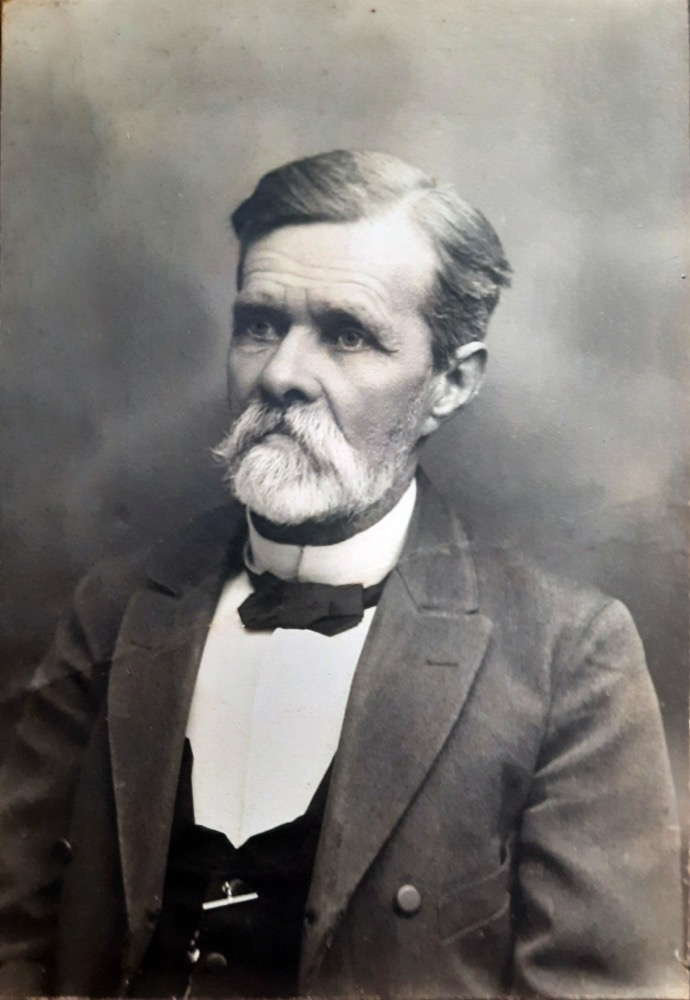
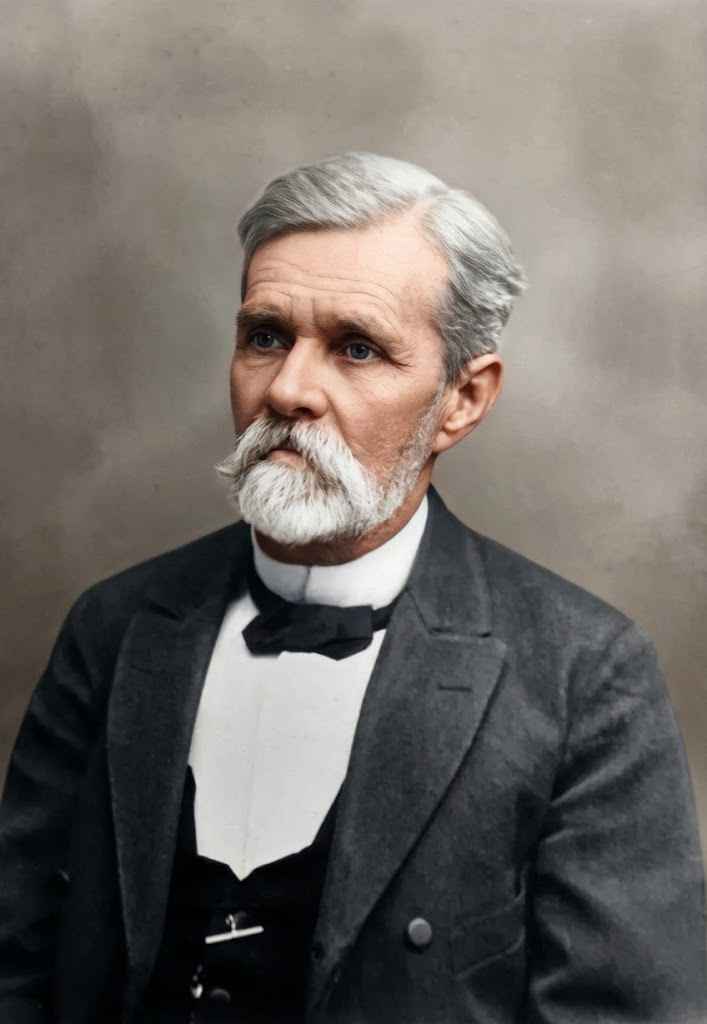
Approve Nechui-Levytskyi: colorized portrait, quote, reworked closing sections

diff --git a/src/content/people/uk/ivan-nechui-levytskyi.md b/src/content/people/uk/ivan-nechui-levytskyi.md
@@ -21,6 +21,7 @@ image:
   alt: "Літній Іван Нечуй-Левицький із сивими вусами й бородою, у сюртуку й краватці-метелику, фото 1912 року"
   author: "Невідомий автор"
   license: "Public domain"
+  ai_edit: colorized
   source_url: "https://commons.wikimedia.org/wiki/File:Nechui_levytskyi.jpg"
 key_accomplishments:
   - "Повість «Микола Джеря» (1878) - про пошуки волі за кріпацтва; екранізована 1927 року"
@@ -28,6 +29,9 @@ key_accomplishments:
   - "Романи «Хмари» (1874) і «Над Чорним морем» (1890), комедія «На Кожум'яках» (1875)"
   - "Стаття «Непотрібність великоруської літератури для України і для слов'янщини» (1877)"
   - "Завершив переклад Біблії українською, який почали Пантелеймон Куліш та Іван Пулюй"
+quotes:
+  - text: "Україна не має своєї держави, але за те має народ, національність, дуже богату національну поезію […]. Маємо сей ґрунт, маємо й будемо мати свою літературу і без своєї державности."
+    source: "«Українство на літературних позвах з Московщиною», 1891"
 sources:
   - title: "Енциклопедія Сучасної України - Нечуй-Левицький Іван Семенович (автор - Т. І. Гундорова)"
     url: "https://esu.com.ua/article-72009"
@@ -36,7 +40,8 @@ sources:
   - title: "Internet Encyclopedia of Ukraine - Nechui-Levytsky, Ivan"
     url: "https://www.encyclopediaofukraine.com/display.asp?linkpath=pages%5CN%5CE%5CNechui6LevytskyIvan.htm"
 related: [panteleimon-kulish, ivan-puliui]
-status: draft
+status: approved
+published: 2026-10-13T22:31:58Z
 ---
 
 ## Книжки, які вдома не друкували
@@ -51,10 +56,12 @@ status: draft
 
 Літературу Нечуй-Левицький вважав дзеркалом життя. У «Миколі Джері» (1878) кріпак шукає волі: від панського маєтку через роботу на цукроварні до вільних земель Бессарабії. 1927 року повість екранізували. У «Кайдашевій сім'ї» (1879) він з іронією показав, як старий сільський світ стикається з новим.
 
-## Література, а не провінція
+## Чому це важливо сьогодні
+
+Іван Нечуй-Левицький був одним із найпослідовніших захисників української самобутності, мови та культури під час дії найжорсткіших імперських утисків (Валуєвського циркуляра 1863 р. та Емського указу 1876 р.).
 
 1877 року він написав статтю з промовистою назвою «Непотрібність великоруської літератури для України і для слов'янщини». Він обстоював думку, що українська література - національна, європейського типу, і має власну традицію. А наприкінці життя завершив переклад Біблії українською, який почали [Пантелеймон Куліш](/uk/people/panteleimon-kulish/) та [Іван Пулюй](/uk/people/ivan-puliui/).
 
-## Чому це важливо сьогодні
+## Як його пам'ятають
 
 Нечуй-Левицький помер у Києві 1918 року. У Стеблеві 1968 року відкрили його будинок-музей, а 1993 року заснували літературну премію його імені. Його іменем названо вулиці в Києві, Львові, Полтаві, Черкасах та інших містах, а «Кайдашеву сім'ю» й «Миколу Джерю» читають і сьогодні.

diff --git a/src/content/people/en/ivan-nechui-levytskyi.md b/src/content/people/en/ivan-nechui-levytskyi.md
@@ -12,6 +12,9 @@ key_accomplishments:
   - "Finished the Ukrainian translation of the Bible begun by Panteleimon Kulish and Ivan Puliui"
 birthplace_name: "Stebliv"
 image_alt: "An elderly Ivan Nechui-Levytskyi with a grey moustache and beard, in a frock coat and bow tie, a photo from 1912"
+quotes:
+  - text: "Ukraine has no state of its own, but it has a people, a nationality and very rich national poetry […]. We have this ground, and we have and will have our own literature even without a state of our own."
+    source: "Ukrainianness in the Literary Disputes with Muscovy, 1891"
 ---
 
 ## Books he couldn’t print at home
@@ -26,10 +29,12 @@ He was born in 1838 in the small town of Stebliv in the Kyiv region (now the Che
 
 Nechui-Levytskyi saw literature as a mirror of life. In Mykola Dzheria (1878) a serf goes looking for freedom: from the landlord’s estate, through work at a sugar mill, to the free lands of Bessarabia. The story was filmed in 1927. In Kaidash’s Family (1879) he showed, with irony, the old village world colliding with the new.
 
-## A literature, not a province
+## Why it matters today
+
+Ivan Nechui-Levytskyi was one of the most steadfast defenders of Ukrainian identity, language and culture in the years of the harshest imperial bans (the Valuev Circular of 1863 and the Ems Decree of 1876).
 
 In 1877 he wrote an essay with a telling title, “The Uselessness of Great Russian Literature for Ukraine and for the Slavs”. He argued that Ukrainian literature was a national, European kind of literature with a tradition of its own. And he finished the Ukrainian translation of the Bible that [Panteleimon Kulish](/en/people/panteleimon-kulish/) and [Ivan Puliui](/en/people/ivan-puliui/) had begun.
 
-## Why it matters today
+## How he is remembered
 
 Nechui-Levytskyi died in Kyiv in 1918. A museum opened in his house in Stebliv in 1968, and a literary prize in his name was founded in 1993. Streets in Kyiv, Lviv, Poltava, Cherkasy and other cities bear his name, and Kaidash’s Family and Mykola Dzheria are still read today.
